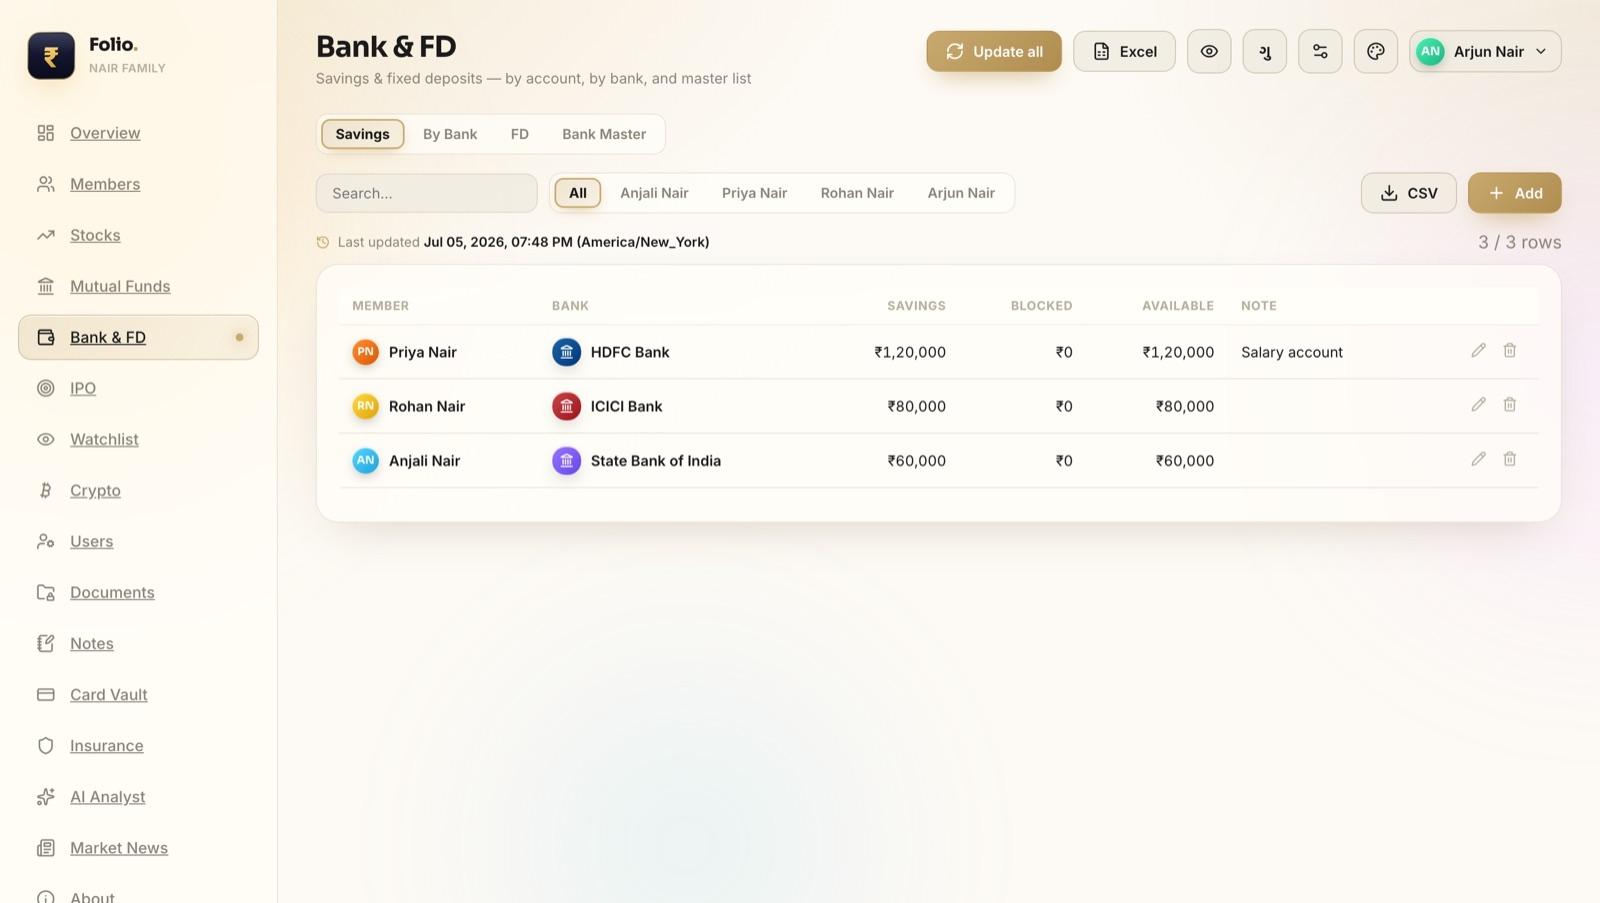
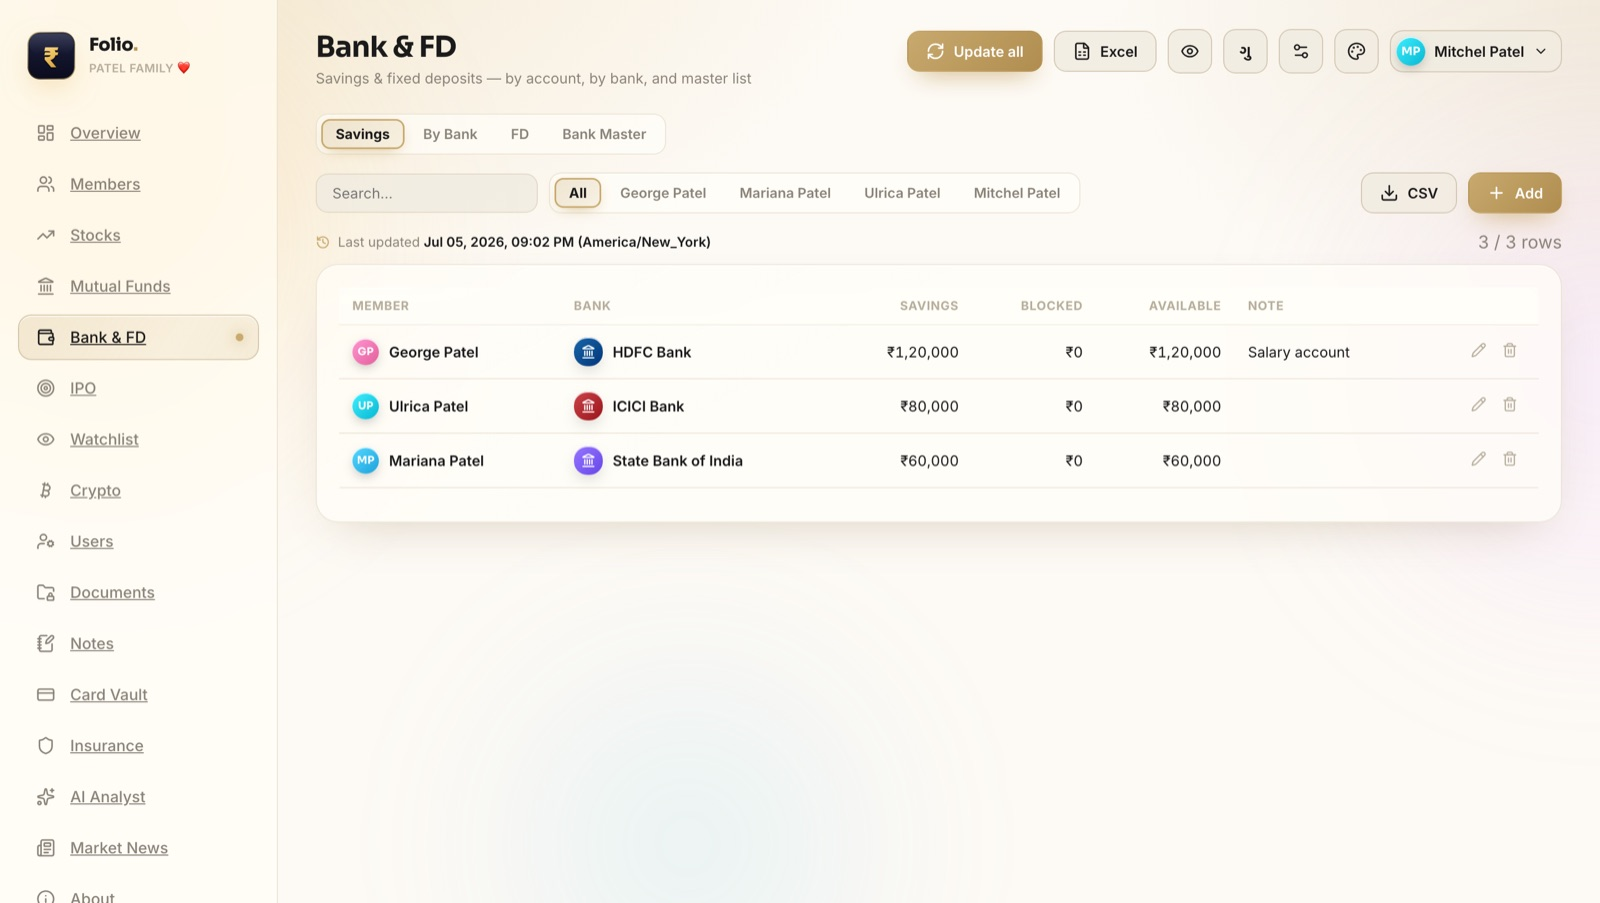
Recapture Folio screenshots with Patel Family demo names + add demo-data note
- Replace all 6 screenshots: workspace "Patel Family ❤", members George /
  Ulrica / Mariana / Mitchel Patel (was Nair)
- Add a clear note that names and amounts in the screenshots are sample data,
  not real personal information

diff --git a/blog/folio-family-wealth-app.html b/blog/folio-family-wealth-app.html
@@ -80,6 +80,9 @@
   .feat li span{font-size:.95rem;line-height:1.5}
   .feat li .ic{font-size:1.3rem;margin-right:6px}
 
+  .note{background:var(--lime);border:var(--border);box-shadow:5px 5px 0 var(--ink);
+    padding:14px 18px;margin:30px 0 6px;font-size:.98rem;line-height:1.55;font-weight:500}
+  .note .hl{background:var(--ink);color:var(--lime)}
   .callout{background:var(--paper);border:var(--border);border-left:12px solid var(--orange);
     box-shadow:var(--shadow);padding:18px 22px;margin:22px 0;font-size:1.04rem;line-height:1.65}
   .callout b{font-family:'Archivo Black',sans-serif}
@@ -204,6 +207,8 @@
 
     <h2>The result</h2>
     <p>Now there is one app I open to see the whole picture. Add a stock, a deposit, or a policy, and it all rolls up into a single number I can trust. It is <strong>private</strong> (stays on my machine), <strong>live</strong> (real prices), and <strong>all in one place</strong> — which is exactly what I wanted from the start.</p>
+
+    <p class="note">📌 <strong>Note:</strong> the family name, the member names (Patel Family, George, Ulrica, Mariana, Mitchel) and all the amounts in the screenshots above are <span class="hl">sample data made just for this post</span> — not real people or real money.</p>
 
     <div class="end">
       Built for my own family, then made general so any family can use it. If you care about keeping your money data on your own computer, this is the kind of app I love making.
